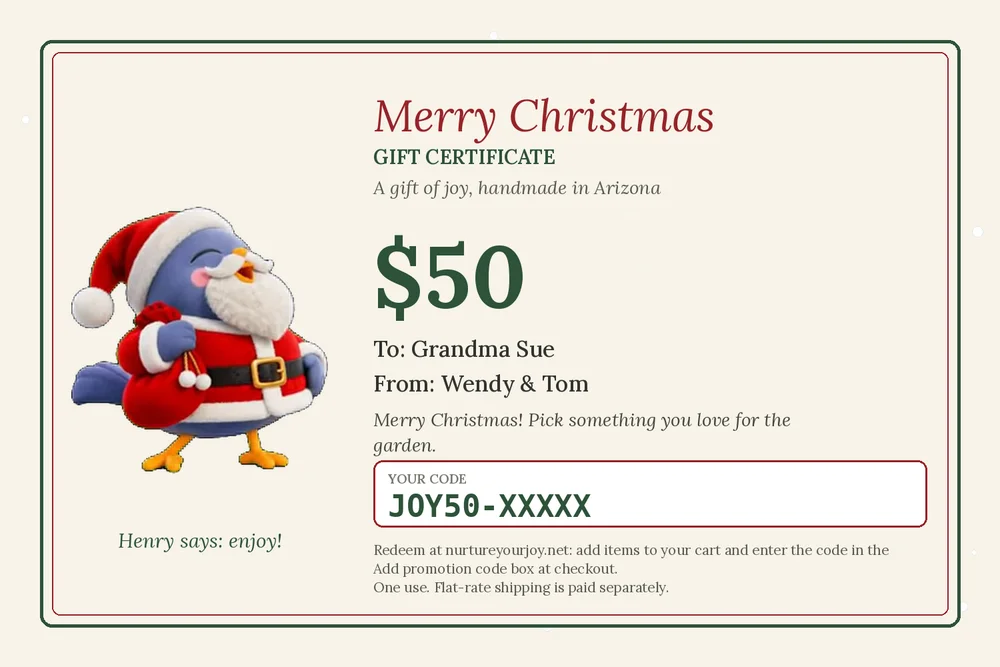
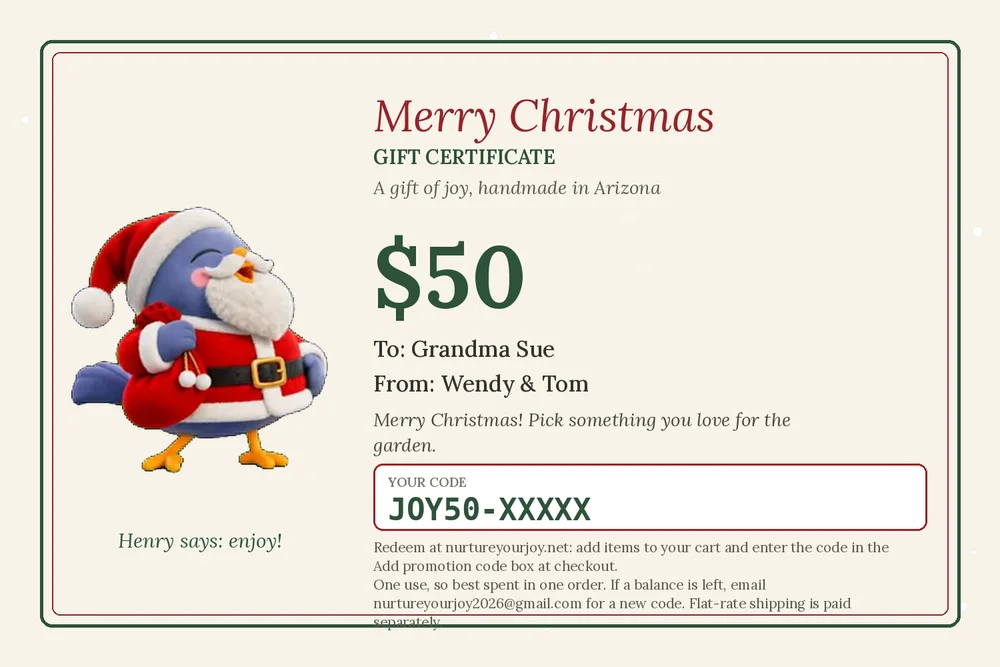
Gift certificate balance note on certificates and Gifts page

Changed region(s): [[0.372, 0.6897, 0.93, 0.9595]]

diff --git a/gifts.html b/gifts.html
@@ -87,7 +87,7 @@
     <figure><img src="assets/gifts/certificate-justbecause.webp" alt="Example Just Because gift certificate with Henry" loading="lazy"><figcaption>Just Because</figcaption></figure>
   </div>
   <p style="margin-top:16px;"><a class="btn" href="https://buy.stripe.com/fZu28k3nT2Z8gtg3Jkbwk11">$25 Gift Certificate</a> &nbsp; <a class="btn" href="https://buy.stripe.com/9B64gsbUp8jsfpcenYbwk12">$50 Gift Certificate</a> &nbsp; <a class="btn" href="https://buy.stripe.com/00w00caQl8js4Ky6Vwbwk13">$100 Gift Certificate</a></p>
-  <p class="notes" style="margin-top:12px;">A certificate covers the price of the items. Flat-rate shipping is paid at checkout. Certificates are not refundable.</p>
+  <p class="notes" style="margin-top:12px;">A certificate covers the price of the items. Flat-rate shipping is paid at checkout. Each code works for one order, so it's best spent all at once. If you have a balance left, just email us and we'll send you a new code for the rest. Certificates are not refundable.</p>
   <p class="notes" style="margin-top:22px;">30-day return policy on every piece. <a href="returns.html">See details</a>. Or come see it in person at our <a href="craft-shows.html">next show</a>.</p>
   </div>
 </section>
